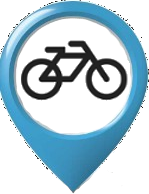
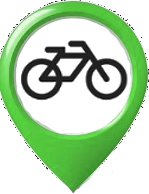
change vehicule markers colors

diff --git a/js/gpxMotionView.js b/js/gpxMotionView.js
@@ -290,7 +290,7 @@
                     className: 'marker-icon-plane',
                     iconAnchor: [20, 52]
                 }),
-                color : 'blue'
+                color : 'purple'
             },
             train : {
                 icon: L.divIcon({
@@ -304,7 +304,7 @@
                     className: 'marker-icon-bus',
                     iconAnchor: [20, 52]
                 }),
-                color : 'purple'
+                color : 'cyan'
             },
             hike : {
                 icon: L.divIcon({
@@ -318,7 +318,7 @@
                     className: 'marker-icon-car',
                     iconAnchor: [20, 52]
                 }),
-                color : 'purple'
+                color : 'blue'
             },
             bike : {
                 icon: L.divIcon({
@@ -349,11 +349,11 @@
         L.control.scale({metric: true, imperial: true, position:'topleft'}).addTo(gpxMotionView.map);
         var legendText =
             '<h3>' + t('gpxmotion', 'Legend') + '</h3><div class="legendVehicules">' +
-            '<div class="dialogicon" icon="plane">  </div><b style="color:blue;">  ' + t('gpxmotion', 'plane') + '</b>' +
+            '<div class="dialogicon" icon="plane">  </div><b style="color:purple;">  ' + t('gpxmotion', 'plane') + '</b>' +
             '<div class="dialogicon" icon="bike"> </div>  <b style="color:green;"> ' + t('gpxmotion', 'bike') + '</b>' +
             '<div class="dialogicon" icon="hike"> </div>  <b style="color:yellow;">' + t('gpxmotion', 'foot') + '</b>' +
-            '<div class="dialogicon" icon="car">  </div>  <b style="color:purple;">' + t('gpxmotion', 'car') + '</b>' +
-            '<div class="dialogicon" icon="bus">  </div>  <b style="color:purple;">' + t('gpxmotion', 'bus') + '</b>' +
+            '<div class="dialogicon" icon="car">  </div>  <b style="color:blue;">' + t('gpxmotion', 'car') + '</b>' +
+            '<div class="dialogicon" icon="bus">  </div>  <b style="color:cyan;">' + t('gpxmotion', 'bus') + '</b>' +
             '<div class="dialogicon" icon="train"></div>  <b style="color:red;">   ' + t('gpxmotion', 'train') + '</b>' +
             '</div>' +
             '<h3>Pins</h3>' +
